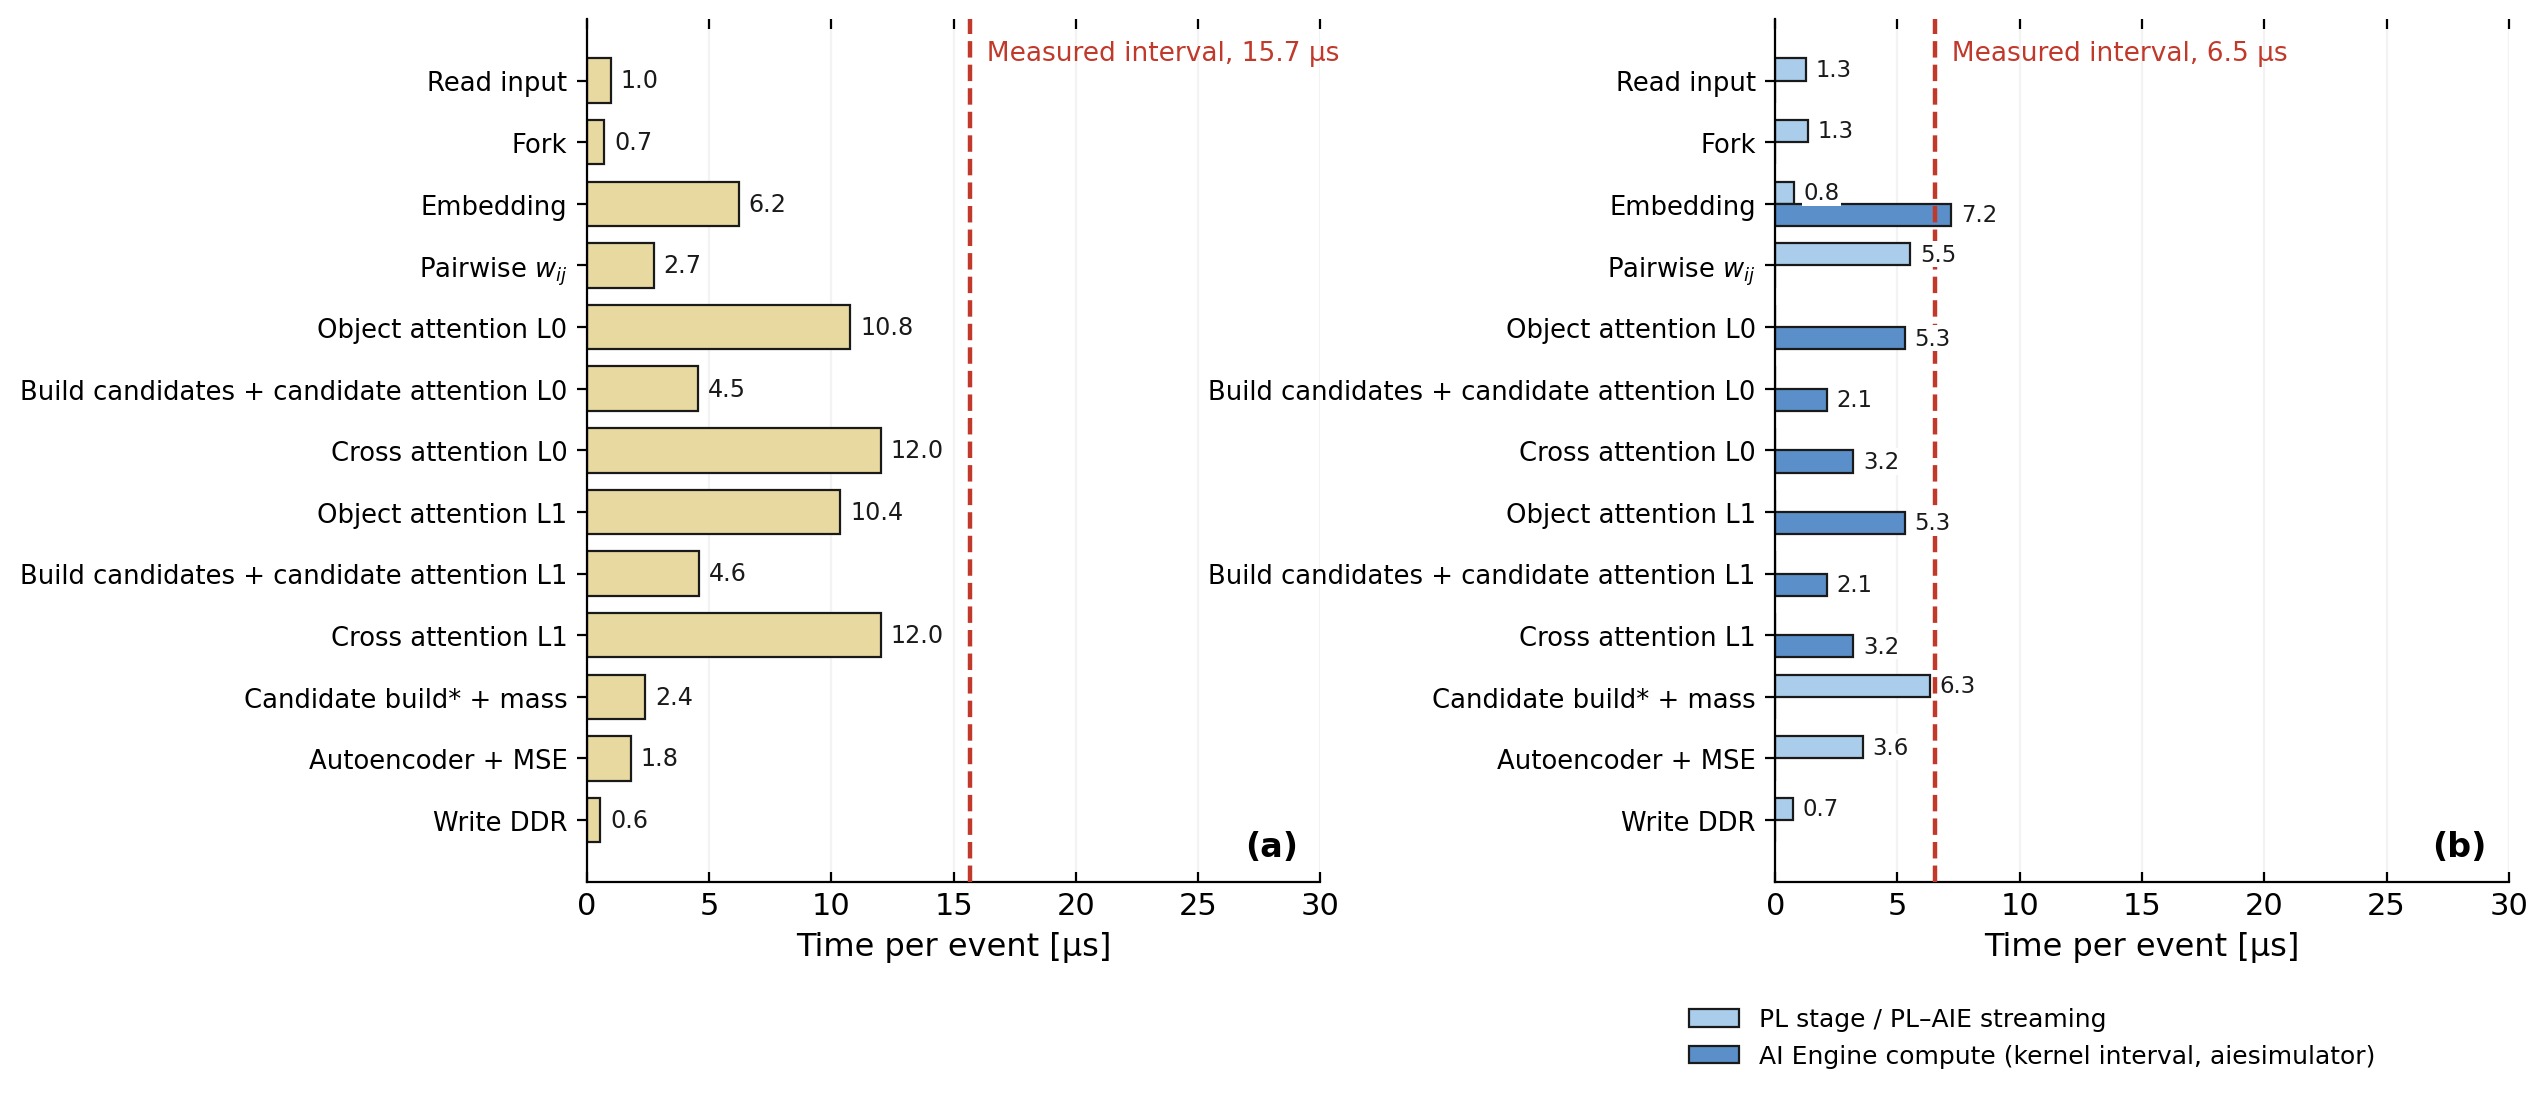
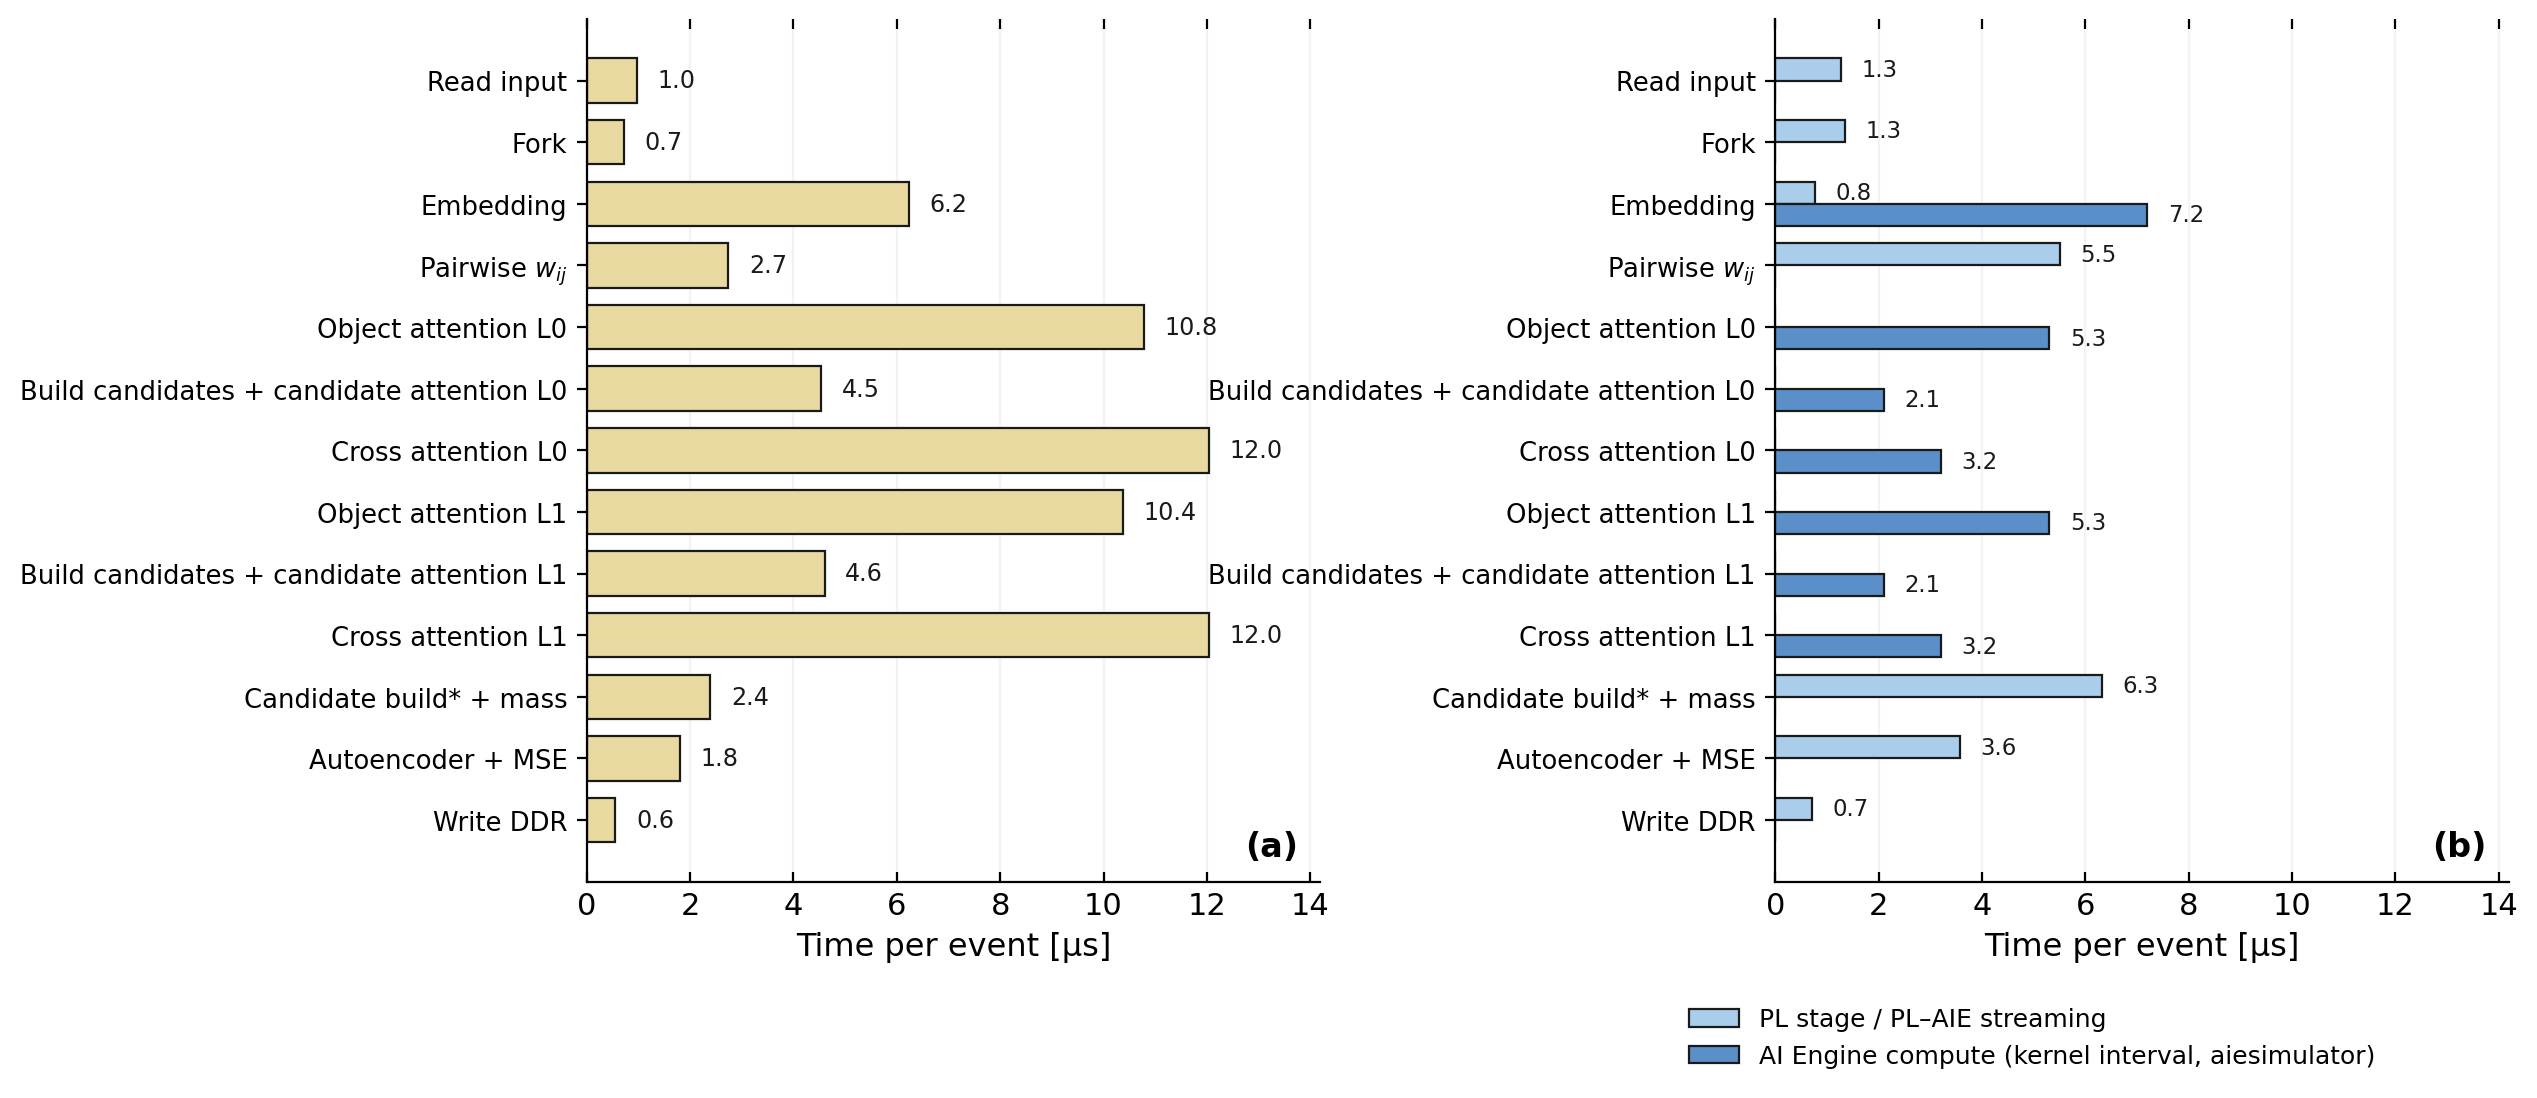
fig: drop the measured-interval marker from the stage breakdown
The panels now show per-stage cost and nothing else, with the axes scaled to
the bars instead of to the removed marker.

diff --git a/scripts/make_latency_and_stage_charts.py b/scripts/make_latency_and_stage_charts.py
@@ -173,25 +173,18 @@ axc.barh(y + hh/2, hp, color=AIEC, edgecolor=INK, linewidth=0.8, height=hh,
 axc.barh(y - hh/2, ha, color=AIE_DARK, edgecolor=INK, linewidth=0.8, height=hh,
          label="AI Engine compute (kernel interval, aiesimulator)")
 for yy, p, a in zip(y, hp, ha):
-    # white background so the measured-interval line does not cross the digits
     if p:
-        axc.text(p + 0.4, yy + hh/2, f"{p:.1f}", va="center", fontsize=8.2, color=INK, zorder=6,
-                 bbox=dict(facecolor="white", edgecolor="none", pad=0.6))
+        axc.text(p + 0.4, yy + hh/2, f"{p:.1f}", va="center", fontsize=8.2, color=INK, zorder=6)
     if a:
-        axc.text(a + 0.4, yy - hh/2, f"{a:.1f}", va="center", fontsize=8.2, color=INK, zorder=6,
-                 bbox=dict(facecolor="white", edgecolor="none", pad=0.6))
+        axc.text(a + 0.4, yy - hh/2, f"{a:.1f}", va="center", fontsize=8.2, color=INK, zorder=6)
 
-# hybrid panel: the deep-FIFO build's interval (the pipeline with enough buffering
-# for its stages to overlap). With the vector integer layer norm the AI Engine
-# compute is well under the interval and the PL embedding stage sets the rate.
-for ax, meas, letter in ((axb, fits["PL-only, attention blocks optimised"], "(a)"), (axc, fits["AIE-PL hybrid, vector AIE kernels"], "(b)")):
-    if meas is not None:
-        ax.axvline(meas, color="#c0392b", ls="--", lw=1.6, zorder=5)
-        ax.text(meas, len(labs) - 0.35, f"  Measured interval, {meas:.1f} µs", color="#c0392b",
-                fontsize=9.5, va="top", ha="left")
+# Per-stage cost only: the measured-interval marker was removed, so each panel
+# shows what the stages cost and nothing else.
+_xmax = max(pl_us.max(), hp.max(), ha.max()) * 1.18
+for ax, letter in ((axb, "(a)"), (axc, "(b)")):
     ax.set_yticks(y); ax.set_yticklabels(labs, fontsize=9.3)
     ax.set_xlabel("Time per event [µs]", fontsize=11.5)
-    ax.set_xlim(0, 30)
+    ax.set_xlim(0, _xmax)
     ax.tick_params(axis="x", direction="in", top=True)
     ax.grid(axis="x", alpha=.14); ax.set_axisbelow(True)
     for sp in ("top", "right"): ax.spines[sp].set_visible(False)
